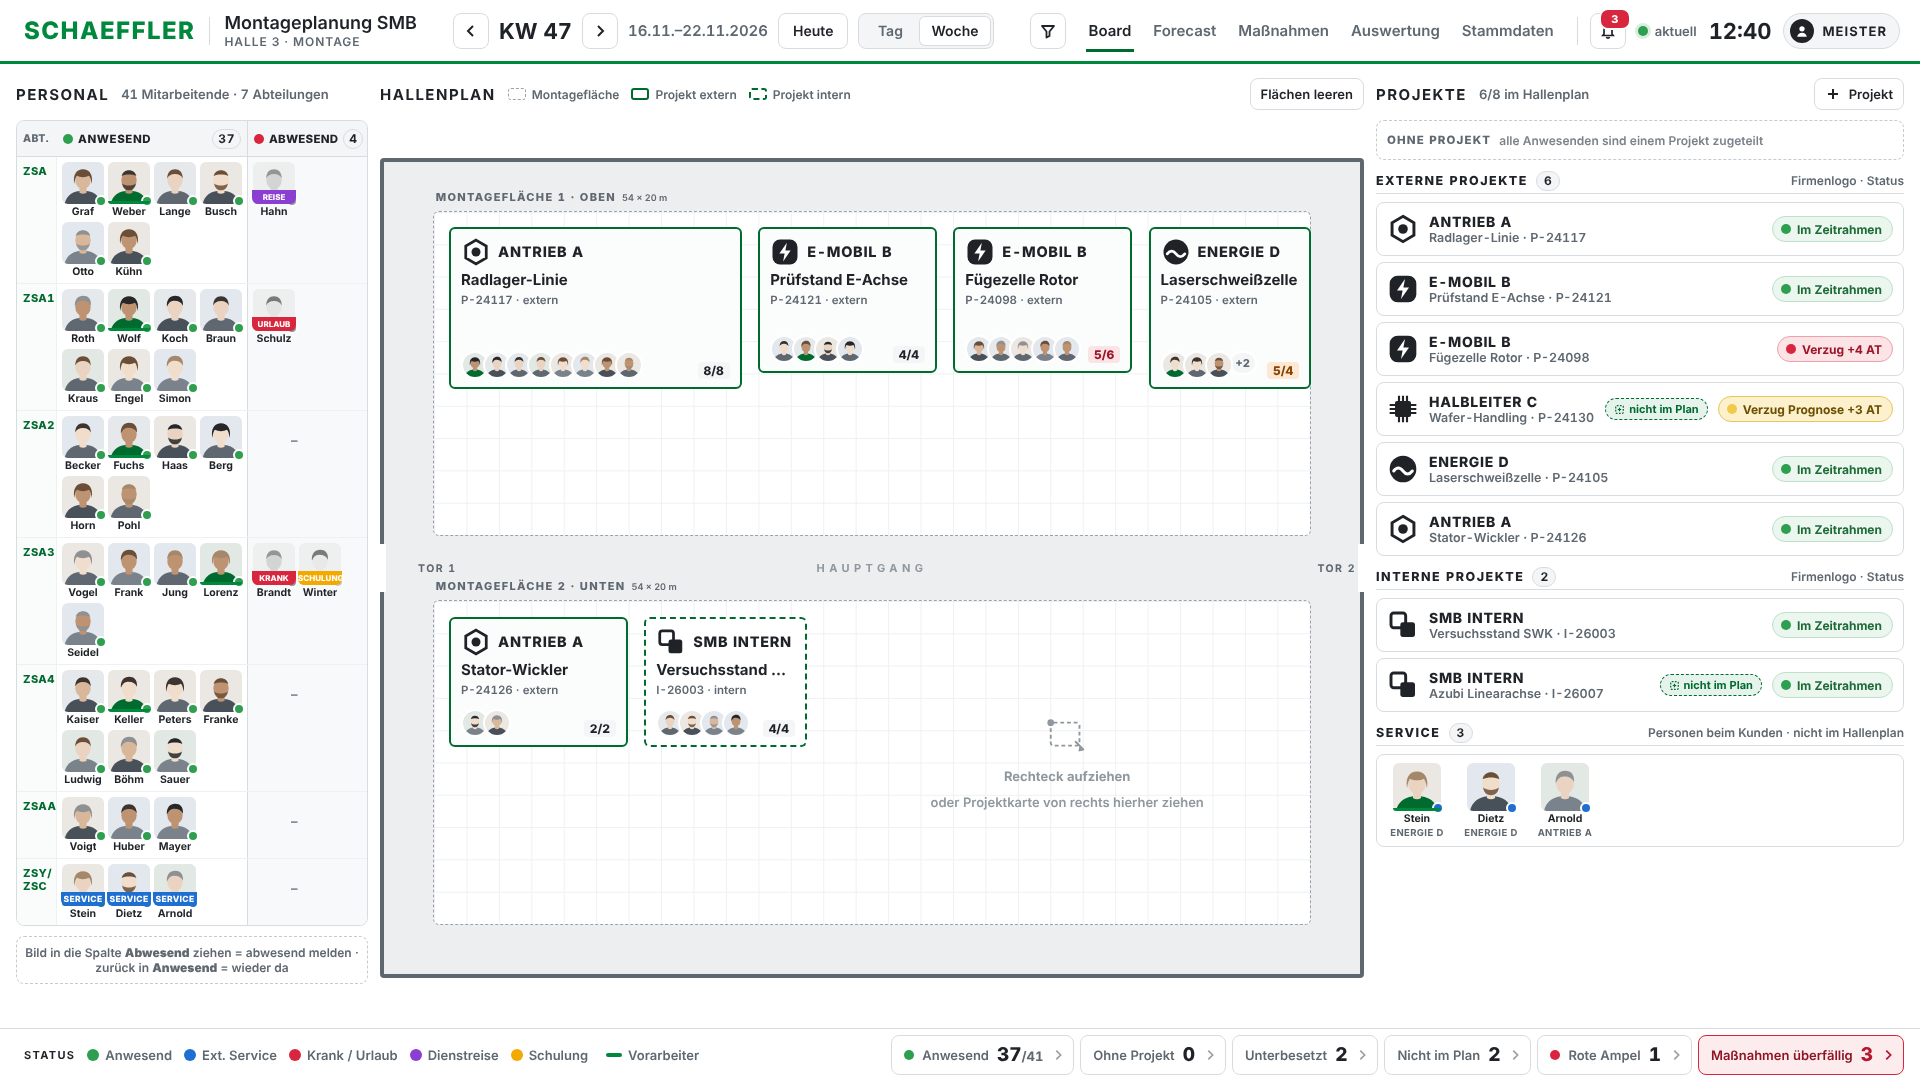
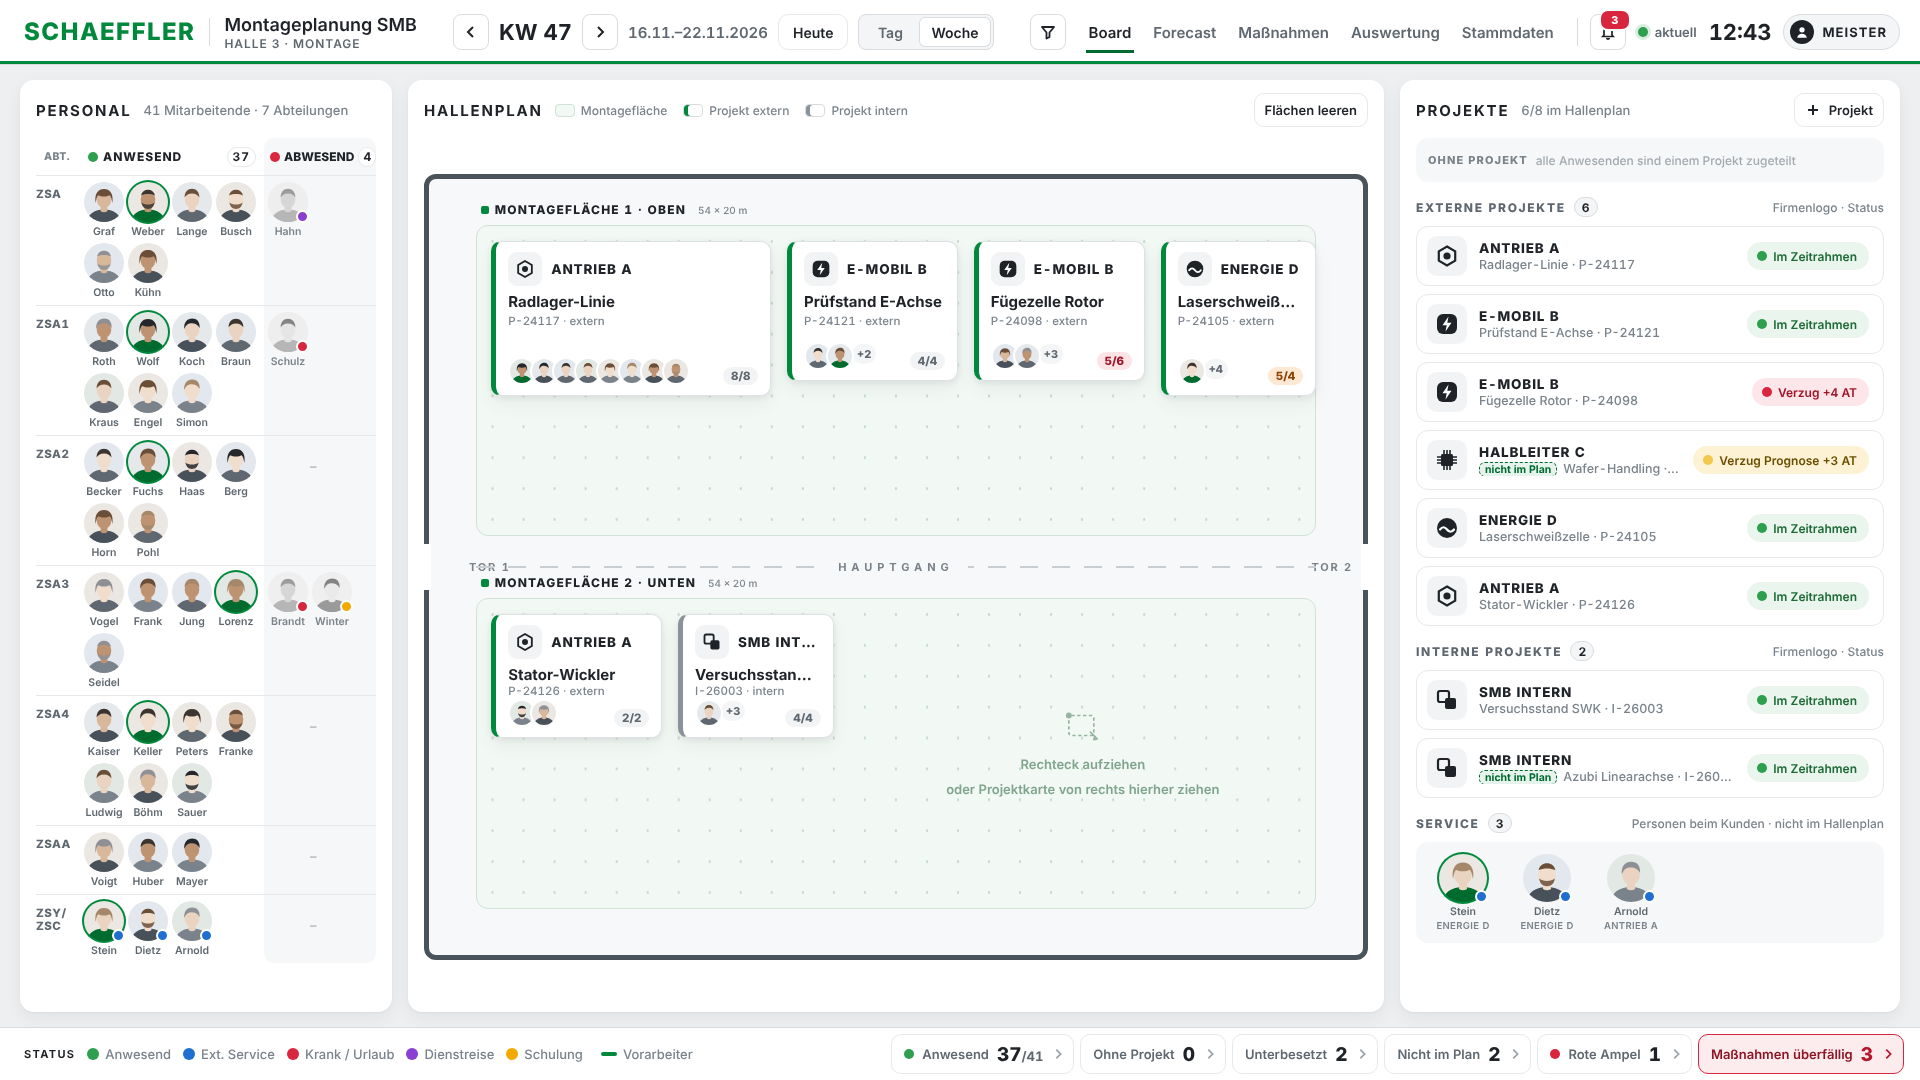
Montageboard: Design-Überarbeitung
Kartenbasiertes Layout auf hellgrauem Grund, runde Personenbilder ohne
Etiketten, ruhigere Tabelle, Hallenplan mit Punktraster und Projekt-
Karten mit Farbakzent, einheitliche Projektliste mit Status-Pills.

Claude-Session: https://claude.ai/code/session_01FF7tkQzNvBLpewGBDK23vb

diff --git a/montageboard/index.html b/montageboard/index.html
@@ -469,6 +469,135 @@ input{font:inherit}
 
 /* Tabellenziffern nur für Zahlen – Namen und Wortmarken proportional */
 .kn,.t-top .nm,.logo,.pn,.mn,.zl,.app-title,.fc-p .nm,.pop-h .nm,.einsatz .nm2,.preview .nm{font-variant-numeric:normal}
+/* =====================================================================
+   DESIGN-ÜBERARBEITUNG – ruhiger, kartenbasiert, mehr Weißraum
+   ===================================================================== */
+:root{--bg:#EDEFF1;--card:#FFFFFF;--shadow:0 1px 2px rgba(31,35,40,.05),0 6px 18px rgba(31,35,40,.06);--r2:14px;--hair:#E6E8EB}
+#stage{background:var(--bg)}
+.hdr{border-bottom:0;box-shadow:inset 0 -3px 0 var(--green),0 1px 0 var(--line)}
+.ftr{border-top:0;box-shadow:0 -1px 0 var(--line)}
+
+/* Hauptraster & Karten */
+.main{grid-template-columns:372px minmax(0,1fr) 500px;gap:16px;padding:16px 20px}
+#v-board > .panel{background:var(--card);border-radius:var(--r2);box-shadow:var(--shadow);padding:14px 16px 16px}
+.ph{height:32px;margin-bottom:12px}
+.ph h2{font-size:15px;letter-spacing:.12em}
+.ph .sub{font-weight:500;color:var(--text-3)}
+.btn{border-color:var(--hair);border-radius:10px}
+.btn.sm{height:34px}
+
+/* ---------- Personal-Tabelle ---------- */
+.pool{gap:12px}
+.ptab{border:0;border-radius:12px;background:transparent;overflow:visible}
+.pt-h,.prow{grid-template-columns:44px minmax(0,1fr) 112px}
+.pt-h{height:38px;background:transparent;border-bottom:1px solid var(--hair);font-size:12px;letter-spacing:.08em}
+.pt-h > span{padding:0 8px}
+.pt-h > span:first-child{color:var(--text-3)}
+.pt-h .c-ab{border-left:0;background:#F6F7F8;border-radius:10px 10px 0 0}
+.pt-h .count{background:var(--white);border-color:var(--hair)}
+.prow{border-bottom:1px solid var(--hair)}
+.prow .dl{border-right:0;background:transparent;padding:12px 0 0 0;display:flex;justify-content:flex-start}
+.prow .dl{font-size:11.5px;color:var(--text-2);letter-spacing:.04em}
+.prow .c-an,.prow .c-ab{padding:7px 4px;gap:5px 4px;min-height:0}
+.prow .c-ab{border-left:0;background:#F6F7F8}
+.prow:last-child .c-ab{border-radius:0 0 10px 10px}
+.prow .none{padding:16px 0 0 42px;color:#B8BEC4}
+.pt{width:40px}
+.pt .ph-img{width:40px;height:40px;border-radius:50%}
+.ph-img .sd{right:-1px;bottom:-1px;width:12px;height:12px}
+.ph-img .sd.st-an{display:none}
+.ph-img.lead::after{display:none}
+.ph-img.lead{box-shadow:0 0 0 2px var(--white),0 0 0 4px var(--green)}
+.pt .cap{font-size:10.5px;font-weight:600;color:var(--text-2);margin-top:2px}
+.pt.abs .ph-img{filter:grayscale(1);opacity:.55}
+.pt .why,.pt .svc{top:30px;left:50%;right:auto;transform:translateX(-50%);height:14px;padding:0 5px;border-radius:7px;font-size:8px;letter-spacing:.02em;box-shadow:0 0 0 2px var(--white);white-space:nowrap}
+.pt.sel .ph-img{box-shadow:0 0 0 2px var(--white),0 0 0 4px var(--green)}
+.pt.sel{animation:none}
+.dim .pt:not(.hit){opacity:.25}
+.drop-note{border:0;background:#F6F7F8;border-radius:10px;color:var(--text-3);font-weight:500}
+.drop-note b{color:var(--text-2)}
+.c-an.drop-ok{background:var(--green-lt)!important;box-shadow:inset 0 0 0 2px var(--green);border-radius:8px}
+.c-ab.drop-ok{background:#FDECEE!important;box-shadow:inset 0 0 0 2px var(--st-ab);border-radius:8px}
+
+/* ---------- Hallenplan ---------- */
+.legend-mini{gap:16px;color:var(--text-3);font-weight:500}
+.legend-mini i{width:20px;height:13px;border-radius:4px}
+.sw-fl{background:#F2F8F4;border:1px solid #CFE3D6}
+.sw-ex{background:var(--white);border:1px solid var(--line);box-shadow:inset 4px 0 0 var(--green)}
+.sw-in{background:var(--white);border:1px solid var(--line);box-shadow:inset 4px 0 0 #8A939B}
+.map{background:#F7F8F9;border:6px solid #3A4148;border-radius:12px}
+.gate{background:var(--card)}
+.gate-l{font-size:11px;color:var(--text-3);letter-spacing:.16em}
+.aisle{background-image:repeating-linear-gradient(90deg,#C9CED3 0 18px,transparent 18px 32px);background-size:100% 2px;background-position:center;background-repeat:no-repeat}
+.aisle span{background:#F7F8F9;padding:0 14px;color:var(--text-3);font-size:11px;letter-spacing:.45em}
+.fl{background-color:#F2F8F4;border:1px solid #CFE3D6;border-radius:12px;background-image:radial-gradient(circle,#BFD9C8 1px,transparent 1.4px)!important;background-size:calc(100% / 27) calc(100% / 10)!important;background-position:0 0}
+.fl-l{top:-24px;left:4px;font-size:12px;color:var(--text);letter-spacing:.1em;display:flex;align-items:center;gap:6px}
+.fl-l::before{content:"";width:8px;height:8px;border-radius:2px;background:var(--green)}
+.fl-l small{color:var(--text-3);font-weight:500}
+.fl.drop-ok{border-color:var(--green);box-shadow:0 0 0 3px rgba(0,137,61,.25)}
+.fl-hint{color:#7FA58C;font-weight:600;font-size:13px}
+.fl-hint svg{width:40px;height:40px;opacity:.8}
+.ghost{border-radius:10px}
+.pr{background:var(--white);border:1px solid #DDE1E4;border-left:5px solid var(--green);border-radius:10px;box-shadow:0 2px 6px rgba(31,35,40,.08),0 8px 20px rgba(31,35,40,.05);padding:10px 12px 10px 12px;gap:3px}
+.pr.in{border-style:solid;border-left-color:#8A939B;background:var(--white)}
+.pr .co{gap:9px;margin-bottom:4px}
+.pr .co .mk{width:34px;height:34px;padding:7px;border-radius:9px;background:#F1F3F4}
+.pr .co b{font-size:13.5px;letter-spacing:.06em}
+.pr .pn{font-size:15px}
+.pr .nr2{font-size:11.5px;color:var(--text-3);font-weight:500}
+.pr .cnt,.cnt{border-radius:999px;padding:2px 8px;font-size:11.5px;background:#F1F3F4;color:var(--text-2)}
+.pr .stk .av{width:24px;height:24px}
+.pr.sel{box-shadow:0 0 0 3px rgba(0,137,61,.3),0 12px 28px rgba(31,35,40,.16)}
+.pr.focus{box-shadow:0 0 0 3px var(--green),0 12px 28px rgba(31,35,40,.12)}
+.pr .del{border-radius:8px;border-color:var(--hair)}
+.pr .rz{border-radius:0 0 9px 0}
+
+/* ---------- Projekte ---------- */
+.proj{gap:14px}
+.sec{gap:8px}
+.sec-h{border-bottom:0;height:22px;padding:0}
+.sec-h h3{font-size:12px;color:var(--text-2);letter-spacing:.14em}
+.sec-h .hint{color:var(--text-3);font-weight:500}
+.plist2{gap:8px}
+.pc2{height:60px;border:1px solid var(--hair);border-radius:12px;padding:0 14px 0 10px;gap:12px;transition:border-color .15s,box-shadow .15s}
+.pc2:hover{border-color:#C9CED3;box-shadow:0 2px 8px rgba(31,35,40,.06)}
+.pc2 > .mk{width:40px;height:40px;padding:8px;border-radius:10px;background:#F1F3F4}
+.pc2 .tx b{font-size:13.5px;letter-spacing:.06em}
+.pc2 .tx span{color:var(--text-3);font-weight:500;margin-top:1px}
+.stat{border:0;height:28px;padding:0 12px 0 10px;border-radius:999px;font-weight:600}
+.stat.g{background:#EAF5EE;color:#1E6B37}
+.stat.y{background:#FDF3D4;color:#6B4E00}
+.stat.r{background:#FCE6E9;color:#9E1528}
+.tag.plan{border-style:dashed;border-width:1px}
+.ohne{border:0;background:#F6F7F8;border-radius:12px;min-height:44px;padding:6px 12px}
+.ohne.has{background:#FFF4EA;box-shadow:inset 0 0 0 1px #F5C9A3}
+.ohne .l{color:var(--text-3);font-size:11px}
+.ohne .t{color:#A2A9AF;font-weight:500}
+.ohne .ph-img{border-radius:50%}
+.svcbox{border:0;background:#F6F7F8;border-radius:12px;padding:12px;gap:14px}
+.svcbox.drop-ok{background:#EAF1FB;box-shadow:inset 0 0 0 2px var(--st-ex)}
+.pt.svcp{width:70px}
+.pt.svcp .ph-img{width:48px;height:48px}
+.pt .cu{font-size:9.5px;color:var(--text-3);font-weight:600}
+
+/* ---------- Fußleiste ---------- */
+.kpi{border-color:var(--hair);border-radius:10px}
+.lg{color:var(--text-3);font-weight:500}
+
+
+.prow .c-an,.prow .c-ab{padding:6px 4px}
+.ph-img.lead{box-shadow:0 0 0 2px var(--green)}
+.pt.sel .ph-img{box-shadow:0 0 0 2px var(--white),0 0 0 4px var(--green-dk)}
+.ph-img .sd{width:13px;height:13px;border-width:2.5px}
+.pt.abs .cap{color:var(--text-3)}
+.np{font-style:normal;font-size:10.5px;font-weight:700;color:var(--green-dk);background:var(--green-lt);border:1px dashed var(--green-dk);border-radius:6px;padding:0 5px;margin-right:6px}
+.map{border-width:5px;border-color:#4A525A}
+.gate-l{background:#F7F8F9;padding:0 6px}
+.pt-h > span.c-ab{padding:0 6px;gap:4px;letter-spacing:0}
+.pt-h .c-ab .count{min-width:18px;padding:0 4px}
+.pt.abs .ph-img{filter:none;opacity:1}
+.pt.abs .ph-img::before{content:"";position:absolute;inset:0;border-radius:50%;background:rgba(246,247,248,.45);-webkit-backdrop-filter:grayscale(1);backdrop-filter:grayscale(1)}
+.ph-img .sd{z-index:1}
 @media (prefers-reduced-motion:reduce){.pt.sel,.flash{animation:none}}
 </style>
 </head>
@@ -802,14 +931,14 @@ function renderPool(){
   const an = MITARBEITER.filter(istAnw), ab = MITARBEITER.filter(p=>!istAnw(p));
   const fokus = S.focus ? new Set(leute(S.focus).map(p=>p.id)) : null;
   const pt = p => `<div class="pt ${istAnw(p)?'':'abs'} ${S.sel===p.id?'sel':''} ${fokus&&fokus.has(p.id)?'hit':''}" draggable="true" data-pid="${p.id}" data-tip="${personTip(p)}">
-      ${foto(p)}${p.s==='ex'?'<span class="svc">SERVICE</span>':''}${istAnw(p)?'':`<span class="why ${STATUS[p.s].c}">${why(p)}</span>`}<span class="cap">${surname(p.n)}</span></div>`;
+      ${foto(p)}<span class="cap">${surname(p.n)}</span></div>`;
   $('#poolSub').textContent = `${MITARBEITER.length} Mitarbeitende · ${TEAMS.length} Abteilungen`;
   pool.innerHTML = `<div class="ptab ${fokus?'dim':''}">
-    <div class="pt-h"><span>Abt.</span><span class="c-an" data-drop="an"><i class="st-an"></i>Anwesend<b class="count">${an.length}</b></span><span class="c-ab" data-drop="ab"><i class="st-ab"></i>Abwesend<b class="count">${ab.length}</b></span></div>
+    <div class="pt-h"><span>Abt.</span><span class="c-an" data-drop="an"><i class="st-an"></i>Anwesend<b class="count">${an.length}</b></span><span class="c-ab" data-drop="ab" data-tip="Bild hierher ziehen = abwesend melden (Grund wählen)\nZurück in „Anwesend“ ziehen = wieder da"><i class="st-ab"></i>Abwesend<b class="count">${ab.length}</b></span></div>
     ${TEAMS.map(t=>{ const a=an.filter(p=>p.t===t), b=ab.filter(p=>p.t===t);
       return `<div class="prow"><span class="dl">${t.replace("/","/<br>")}</span><div class="c-an" data-drop="an">${a.map(pt).join('')}</div><div class="c-ab" data-drop="ab">${b.map(pt).join('')||'<span class="none">–</span>'}</div></div>`; }).join('')}
     </div>
-    <div class="drop-note">Bild in die Spalte <b>Abwesend</b> ziehen = abwesend melden · zurück in <b>Anwesend</b> = wieder da</div>`;
+`;
 }
 
 /* =============================================================================
@@ -832,7 +961,7 @@ function renderMap(){
   if(hz) html += `<div class="fl-hint" style="${box(hz)}">${ICO.draw}Rechteck aufziehen<br><span style="font-weight:600">oder Projektkarte von rechts hierher ziehen</span></div>`;
   Object.entries(PLAN).forEach(([nr,r])=>{
     const pr = PR(nr); if(!pr) return;
-    const ppl = leute(nr), n = ppl.length, maxAv = Math.max(1, Math.floor((r.w*16.4-80)/18));
+    const ppl = leute(nr), n = ppl.length, maxAv = Math.max(1, Math.floor((r.w*15.5-100)/20));
     const vis = ppl.length>maxAv ? maxAv-1 : maxAv;
     const stk = ppl.slice(0,vis).map(p=>`<span class="av ph-${p.id}" draggable="true" data-pid="${p.id}" data-tip="${personTip(p)}"></span>`).join('') + (ppl.length>vis?`<span class="more">+${ppl.length-vis}</span>`:'');
     html += `<div class="pr ${pr.kl==='intern'?'in':''} ${S.selRect===nr?'sel':''} ${S.focus===nr?'focus':''}" data-nr="${nr}" style="${box(r)}" data-tip="${pr.nr} ${pr.nm} · ${LOGO[pr.c].n}\nFläche ${r.w} × ${r.h} m · Personal ${n}/${pr.soll}">
@@ -871,8 +1000,7 @@ function zeile(pr){
   const st = d==='g' ? 'Im Zeitrahmen' : d==='y' ? `Verzug Prognose +${pr.verzug.at} AT` : `Verzug +${pr.verzug.at} AT`;
   return `<article class="pc2 ${S.focus===pr.nr?'focus':''}" data-nr="${pr.nr}" draggable="true" data-tip="${pr.nr} ${pr.nm} · Phase ${pr.cur} · bis ${pr.to}\nPersonal Ist ${ist(pr)} / Soll ${pr.soll}${imPlan(pr)?'':'\nNoch nicht im Hallenplan – auf eine Montagefläche ziehen'}">
     <span class="mk">${LOGO[pr.c].svg}</span>
-    <div class="tx"><b>${LOGO[pr.c].n}</b><span>${pr.nm} · ${pr.nr}</span></div>
-    ${imPlan(pr)?'':`<span class="tag plan">${ICO.pin}nicht im Plan</span>`}
+    <div class="tx"><b>${LOGO[pr.c].n}</b><span>${imPlan(pr)?'':'<em class="np">nicht im Plan</em>'}${pr.nm} · ${pr.nr}</span></div>
     <span class="stat ${d}"><i></i>${st}</span></article>`;
 }
 
@@ -1384,7 +1512,7 @@ function kpiClick(k){
   if(k==='an') flash($('.ptab'));
   if(k==='ohne') flash($('#ohne'));
   if(k==='under') document.querySelectorAll('.pr .cnt.under').forEach(c=>flash(c.closest('.pr')));
-  if(k==='plan') document.querySelectorAll('.pc2 .tag.plan').forEach(t=>flash(t.closest('.pc2')));
+  if(k==='plan') document.querySelectorAll('.pc2 .np').forEach(t=>flash(t.closest('.pc2')));
   if(k==='rot'){ S.hl = (PROJEKTE.find(p=>forecast(p).amp.includes('r'))||{}).nr; setView('forecast'); }
   if(k==='mn') toast('3 Maßnahmen überfällig – Ansicht „Maßnahmen“ folgt');
 }
